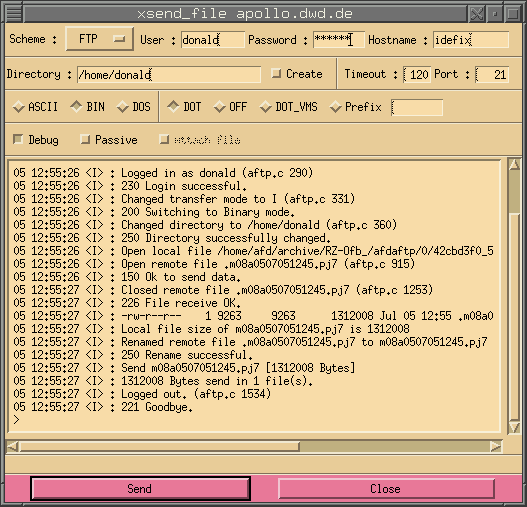
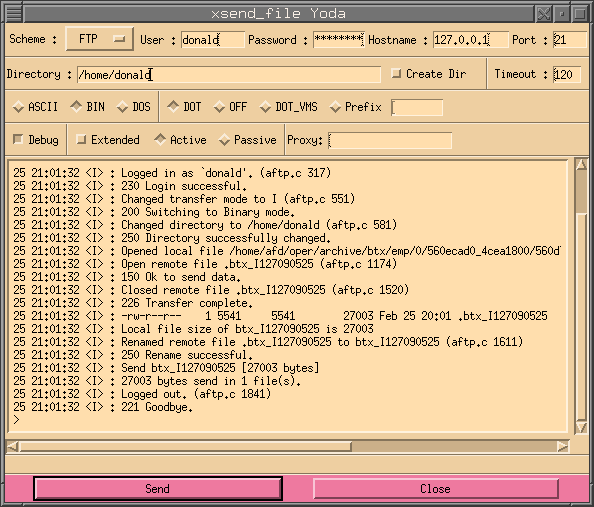
Update documentation for show_olog dialog.

diff --git a/doc/html-en/show_olog.html b/doc/html-en/show_olog.html
@@ -32,33 +32,39 @@ to reduce the search time by filling in some of the following values:
        hh = hour [00 - 23], mm = minute [00 - 59]). The relative form
        always starts with a hyphen '-' and has the following format:
        -DDhhmm, -hhmm or -mm.</td>
+   <td>&nbsp;</td>
 </tr>
 <tr>
    <td>&nbsp;<b>2</b>&nbsp;</td>
    <td>When set the output log will be shown continuously, ie. if new entries
        come they will be shown live as they come in.</td>
+   <td>&nbsp;</td>
 </tr>
 <tr>
    <td>&nbsp;<b>3</b>&nbsp;</td>
    <td>Shows the current date and time in the following format:
        DD.MM.YYYY hh:mm</td>
+   <td>&nbsp;</td>
 </tr>
 <tr>
    <td>&nbsp;<b>4</b>&nbsp;</td>
    <td>Enter a file name. The name may have any number of the two following
        wild cards: * and ?. If no file name or wild card is entered it will
        always search for all file names.</td>
+   <td>&nbsp;</td>
 </tr>
 <tr>
    <td>&nbsp;<b>5</b>&nbsp;</tD>
    <td>Here it is possible to enter the length/size of a file. If a &lt; or
        a &gt; sign is put before the size value, it will search for files
        less then or greater then the given size.</td>
+   <td>&nbsp;</td>
 </tr>
 <tr>
    <td>&nbsp;<b>6</b>&nbsp;</td>
    <td>The source directory where the AFD has picked up the file. Even here
        it is possible to enter wild cards.</td>
+   <td>&nbsp;</td>
 </tr>
 <tr>
    <td>&nbsp;<b>7</b>&nbsp;</td>
@@ -68,6 +74,7 @@ to reduce the search time by filling in some of the following values:
        can also be used. When using the syntax &lt;user&gt;@&lt; hostname&gt;
        it is possible to narrow down the search to a specific user
        on that host.</td>
+   <td>&nbsp;</td>
 </tr>
 <tr>
    <td>&nbsp;<b>8</b>&nbsp;</td>
@@ -75,19 +82,24 @@ to reduce the search time by filling in some of the following values:
        number which can be found at the end of each line in TRANSFER_LOG.
        This number may also be entered with a leading &#35;. Multible
        numbers can be entered by seperating them with a comma.</td>
+   <td>&nbsp;</td>
 </tr>
 <tr>
    <td>&nbsp;<b>9</b>&nbsp;</td>
-   <td>Here it is possible to select by the protocol they where transmitted.</td>
+   <td>Here it is possible to select by the protocol that the data was
+       transmitted. The dialog on the rigth shows the options possible.</td>
+   <td><img src="../images/select_protocol.png"></td>
 </tr>
 <tr>
    <td>&nbsp;<b>10</b>&nbsp;</td>
    <td>When selected, only archived data will be shown.</td>
+   <td>&nbsp;</td>
 </tr>
 <tr>
    <td>&nbsp;<b>11</b>&nbsp;</td>
    <td>When selected, only confirmed data will be shown. Confirmed
        is where the protocol does support this. Not yet implemented.</td>
+   <td>&nbsp;</td>
 </tr>
 <tr>
    <td>&nbsp;<b>12</b>&nbsp;</td>
@@ -97,18 +109,21 @@ to reduce the search time by filling in some of the following values:
        VIEW_DATA_NO_FILTER_PROG</a> will be selected. A special viewer
        can also be configured via the  <a href="afd_config.html#view_data_prog">
        VIEW_DATA_PROG</a> parameter in $AFD_WORK_DIR/etc/AFD_CONFIG.</td>
+   <td><img src="../images/view_content_mode.png"></td>
 </tr>
 <tr>
    <td>&nbsp;<b>13</b>&nbsp;</td>
    <td>These toggle buttons allow the user to toggle between different length
        of the file name in the list box. The short one is useful when
        printing on A4 paper.</td>
+   <td>&nbsp;</td>
 </tr>
 <tr>
    <td>&nbsp;<b>14</b>&nbsp;</td>
    <td>File names displayed will be those before being send ie. local.
        When pressed they will be shown how they where stored on the
        remote side.</td>
+   <td>&nbsp;</td>
 </tr>
 </table>
 </center>
@@ -311,7 +326,7 @@ which have the following meaning:
    <td width="90%"><small><address>
    Copyright &copy; 1997 - 2016 by H.Kiehl<br>
    <a href="mailto:Holger.Kiehl@dwd.de?subject=AFD Homepage">Holger.Kiehl@dwd.de</a><br>
-   Last updated: 19.02.2016
+   Last updated: 21.02.2016
    </address></small></td>
    <td nowrap><small><img align=middle src="../images/reddot.gif" alt="[red dot]"><a href="contents.html">Index</a></small></td>
    <td nowrap><small><img align=middle src="../images/reddot.gif" alt="[red dot]"><a href="index.html">Home</a></small></td>

diff --git a/src/UI/Motif/xsend_file/xsend_file.c b/src/UI/Motif/xsend_file/xsend_file.c
@@ -1,6 +1,6 @@
 /*
  *  xsend_file.c - Part of AFD, an automatic file distribution program.
- *  Copyright (c) 2005 - 2015 Holger Kiehl <Holger.Kiehl@dwd.de>
+ *  Copyright (c) 2005 - 2016 Holger Kiehl <Holger.Kiehl@dwd.de>
  *
  *  This program is free software; you can redistribute it and/or modify
  *  it under the terms of the GNU General Public License as published by
@@ -1136,9 +1136,9 @@ init_xsend_file(int  *argc,
 
    /* Prepare title for window. */
    (void)strcpy(title_name, "xsend_file ");
-   if (gethostname(&title_name[11], 29) != 0)
+   if (get_afd_name(&title_name[11]) == INCORRECT)
    {
-      title_name[10] = '\0';
+      (void)gethostname(&title_name[11], 29);
    }
 
    if ((db = malloc(sizeof(struct send_data))) == NULL)
